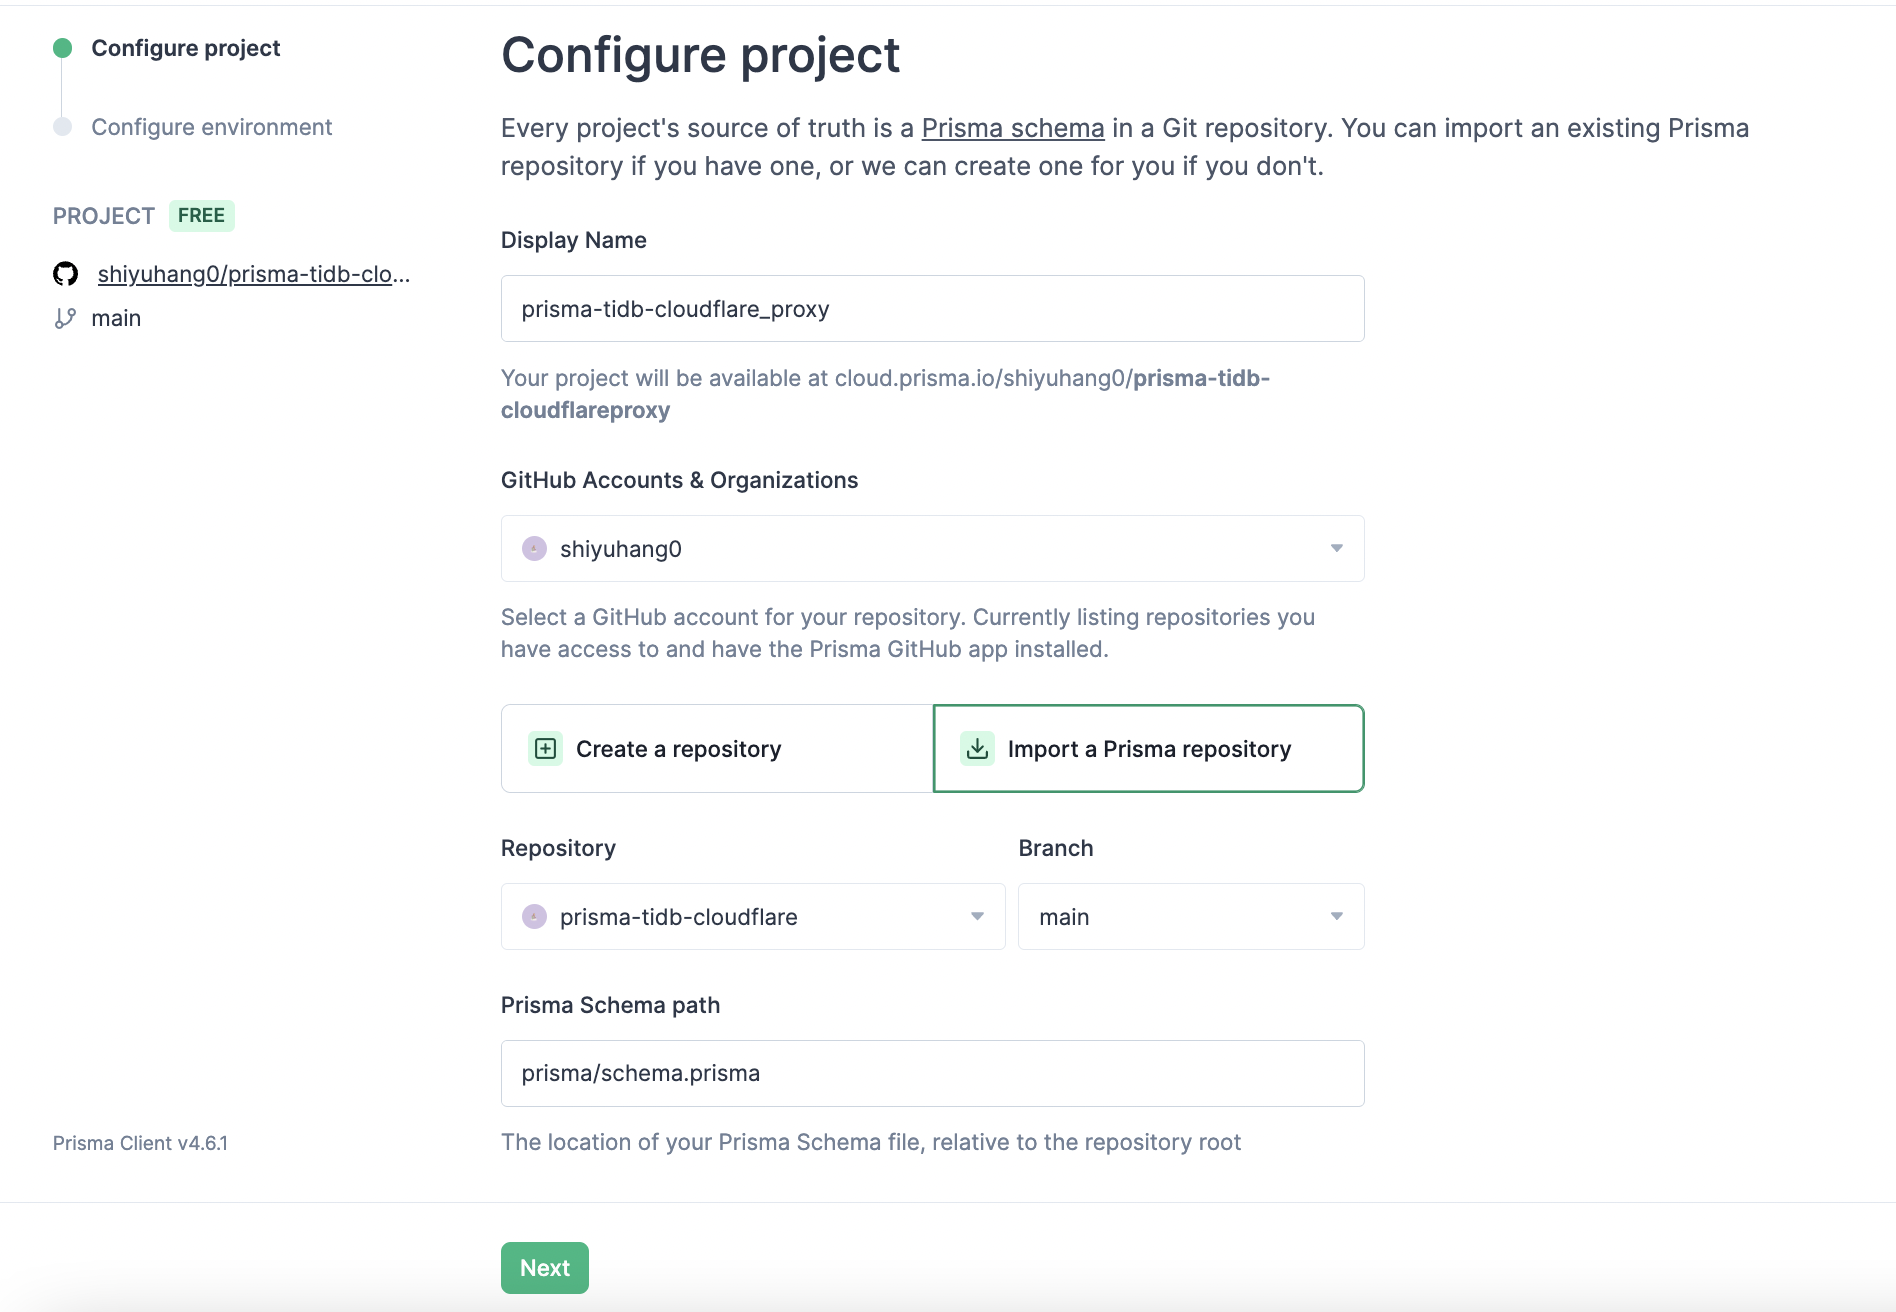
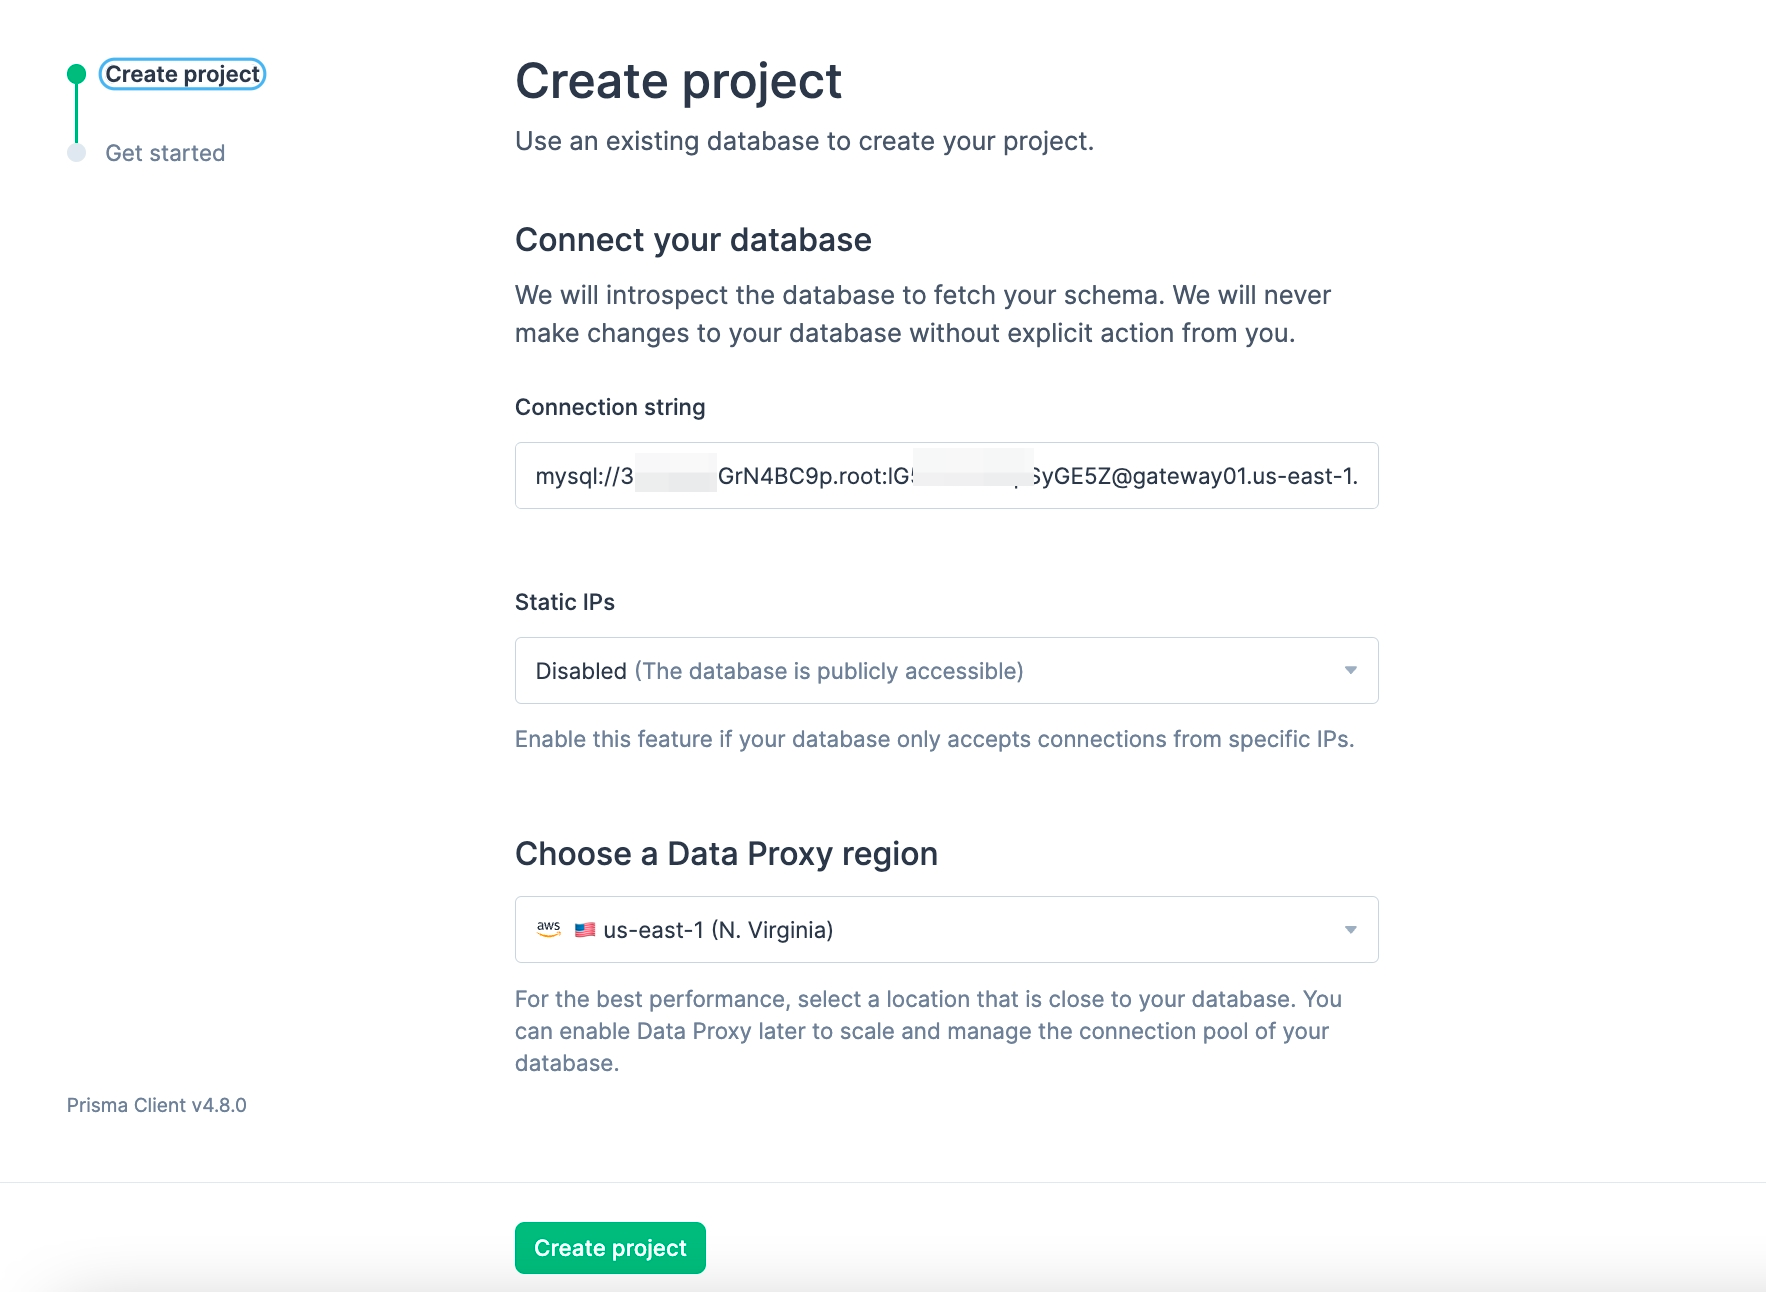
change pic

diff --git a/tidb-cloud/integrate-tidbcloud-with-cloudflare.md b/tidb-cloud/integrate-tidbcloud-with-cloudflare.md
@@ -104,21 +104,19 @@ git push -u origin main
 
 With Cloudflare Workers, you can't directly access your database because there is no TCP support. Fortunately, You can use Prisma Data Proxy as described above.
 
-1. To get started, sign in to the [Prisma Data Platform](https://cloud.prisma.io/).
-2. Click **New Project** and then select **Import a Prisma repository**.
-3. Fill in the repository and project details, and click **Next**.
+1. To get started, sign in to the [Prisma Data Platform](https://cloud.prisma.io/) and click **New Project**.
+2. Fill in the **Connection string** with this pattern `mysql://USER:PASSWORD@HOST:PORT/DATABASE?sslaccept=strict`. You can find the connection information in your [TiDB Cloud console](https://tidbcloud.com/console/clusters).
+3. Leave the **Static IPs** as disabled because TiDB Cloud Serverless Tier is accessible from any IP address.
+4. Select a Data Proxy region that is geographically close to your TiDB Cloud cluster location. Then click **Create project**.
 
    ![img.png](/media/tidb-cloud/cloudflare/cloudflare-project.png)
 
-4. Fill in the **Connection string** with this pattern `mysql://USER:PASSWORD@HOST:PORT/DATABASE?sslaccept=strict`. You can find the connection information in your [TiDB Cloud console](https://tidbcloud.com/console/clusters).
-5. Under **Location**, select a Data Proxy location that is geographically close to your TiDB Cloud cluster location.
-6. Leave the **Static IPs** as disabled because TiDB Cloud Serverless Tier is accessible from any IP address.
+5. Fill in the repository, and click **Link Prisma schema** in the Get Started page.
+6. Click **Create a new connection string** and you will get a new connection string that starts with `prisma://.` Copy this connection string and save it for later.
 
-   ![img.png](/media/tidb-cloud/cloudflare/cloudflare-env.png)
+   ![img.png](/media/tidb-cloud/cloudflare/cloudflare-start.png)
 
-7. Click **Create Project**. You'll be greeted with a new connection string that starts with `prisma://.` Copy this connection string and save it for later.
-
-   ![img.png](/media/tidb-cloud/cloudflare/cloudflare-connection.png)
+7. Click **Skip and continue to Data Platform** to go to the Data Platform.
 
 ## Step 5: Set the Data Proxy Connection string in your environment
 
